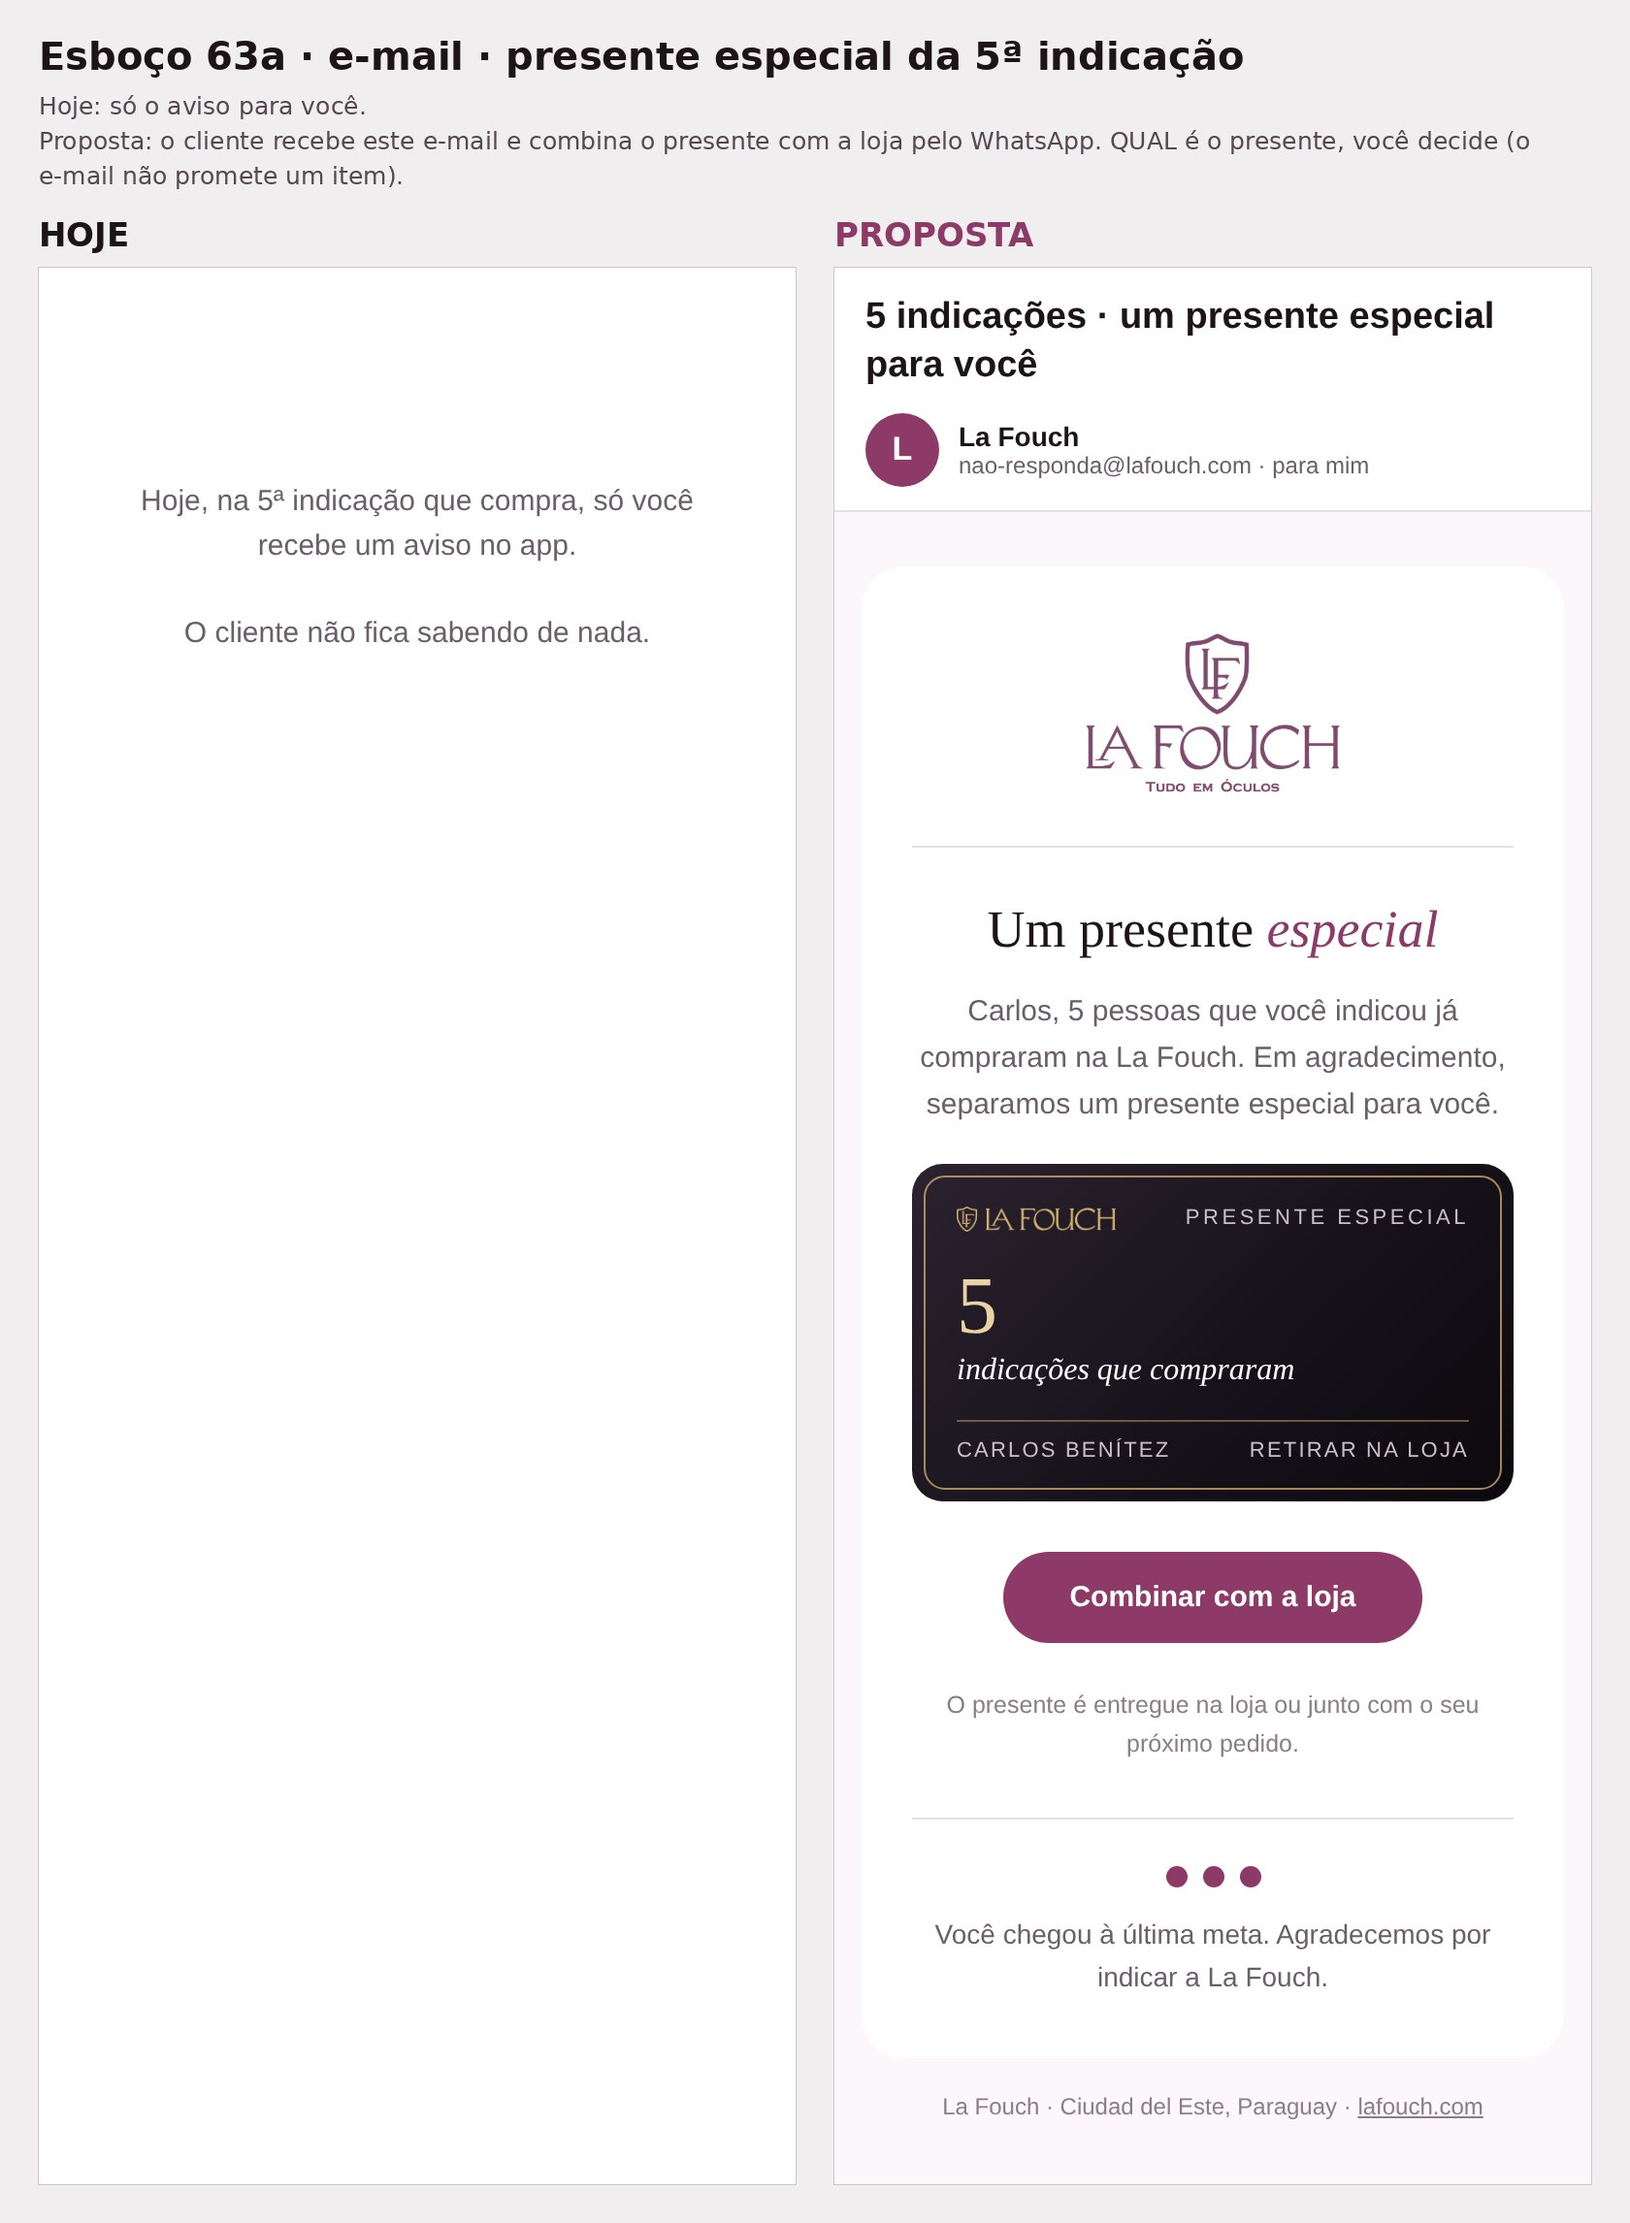
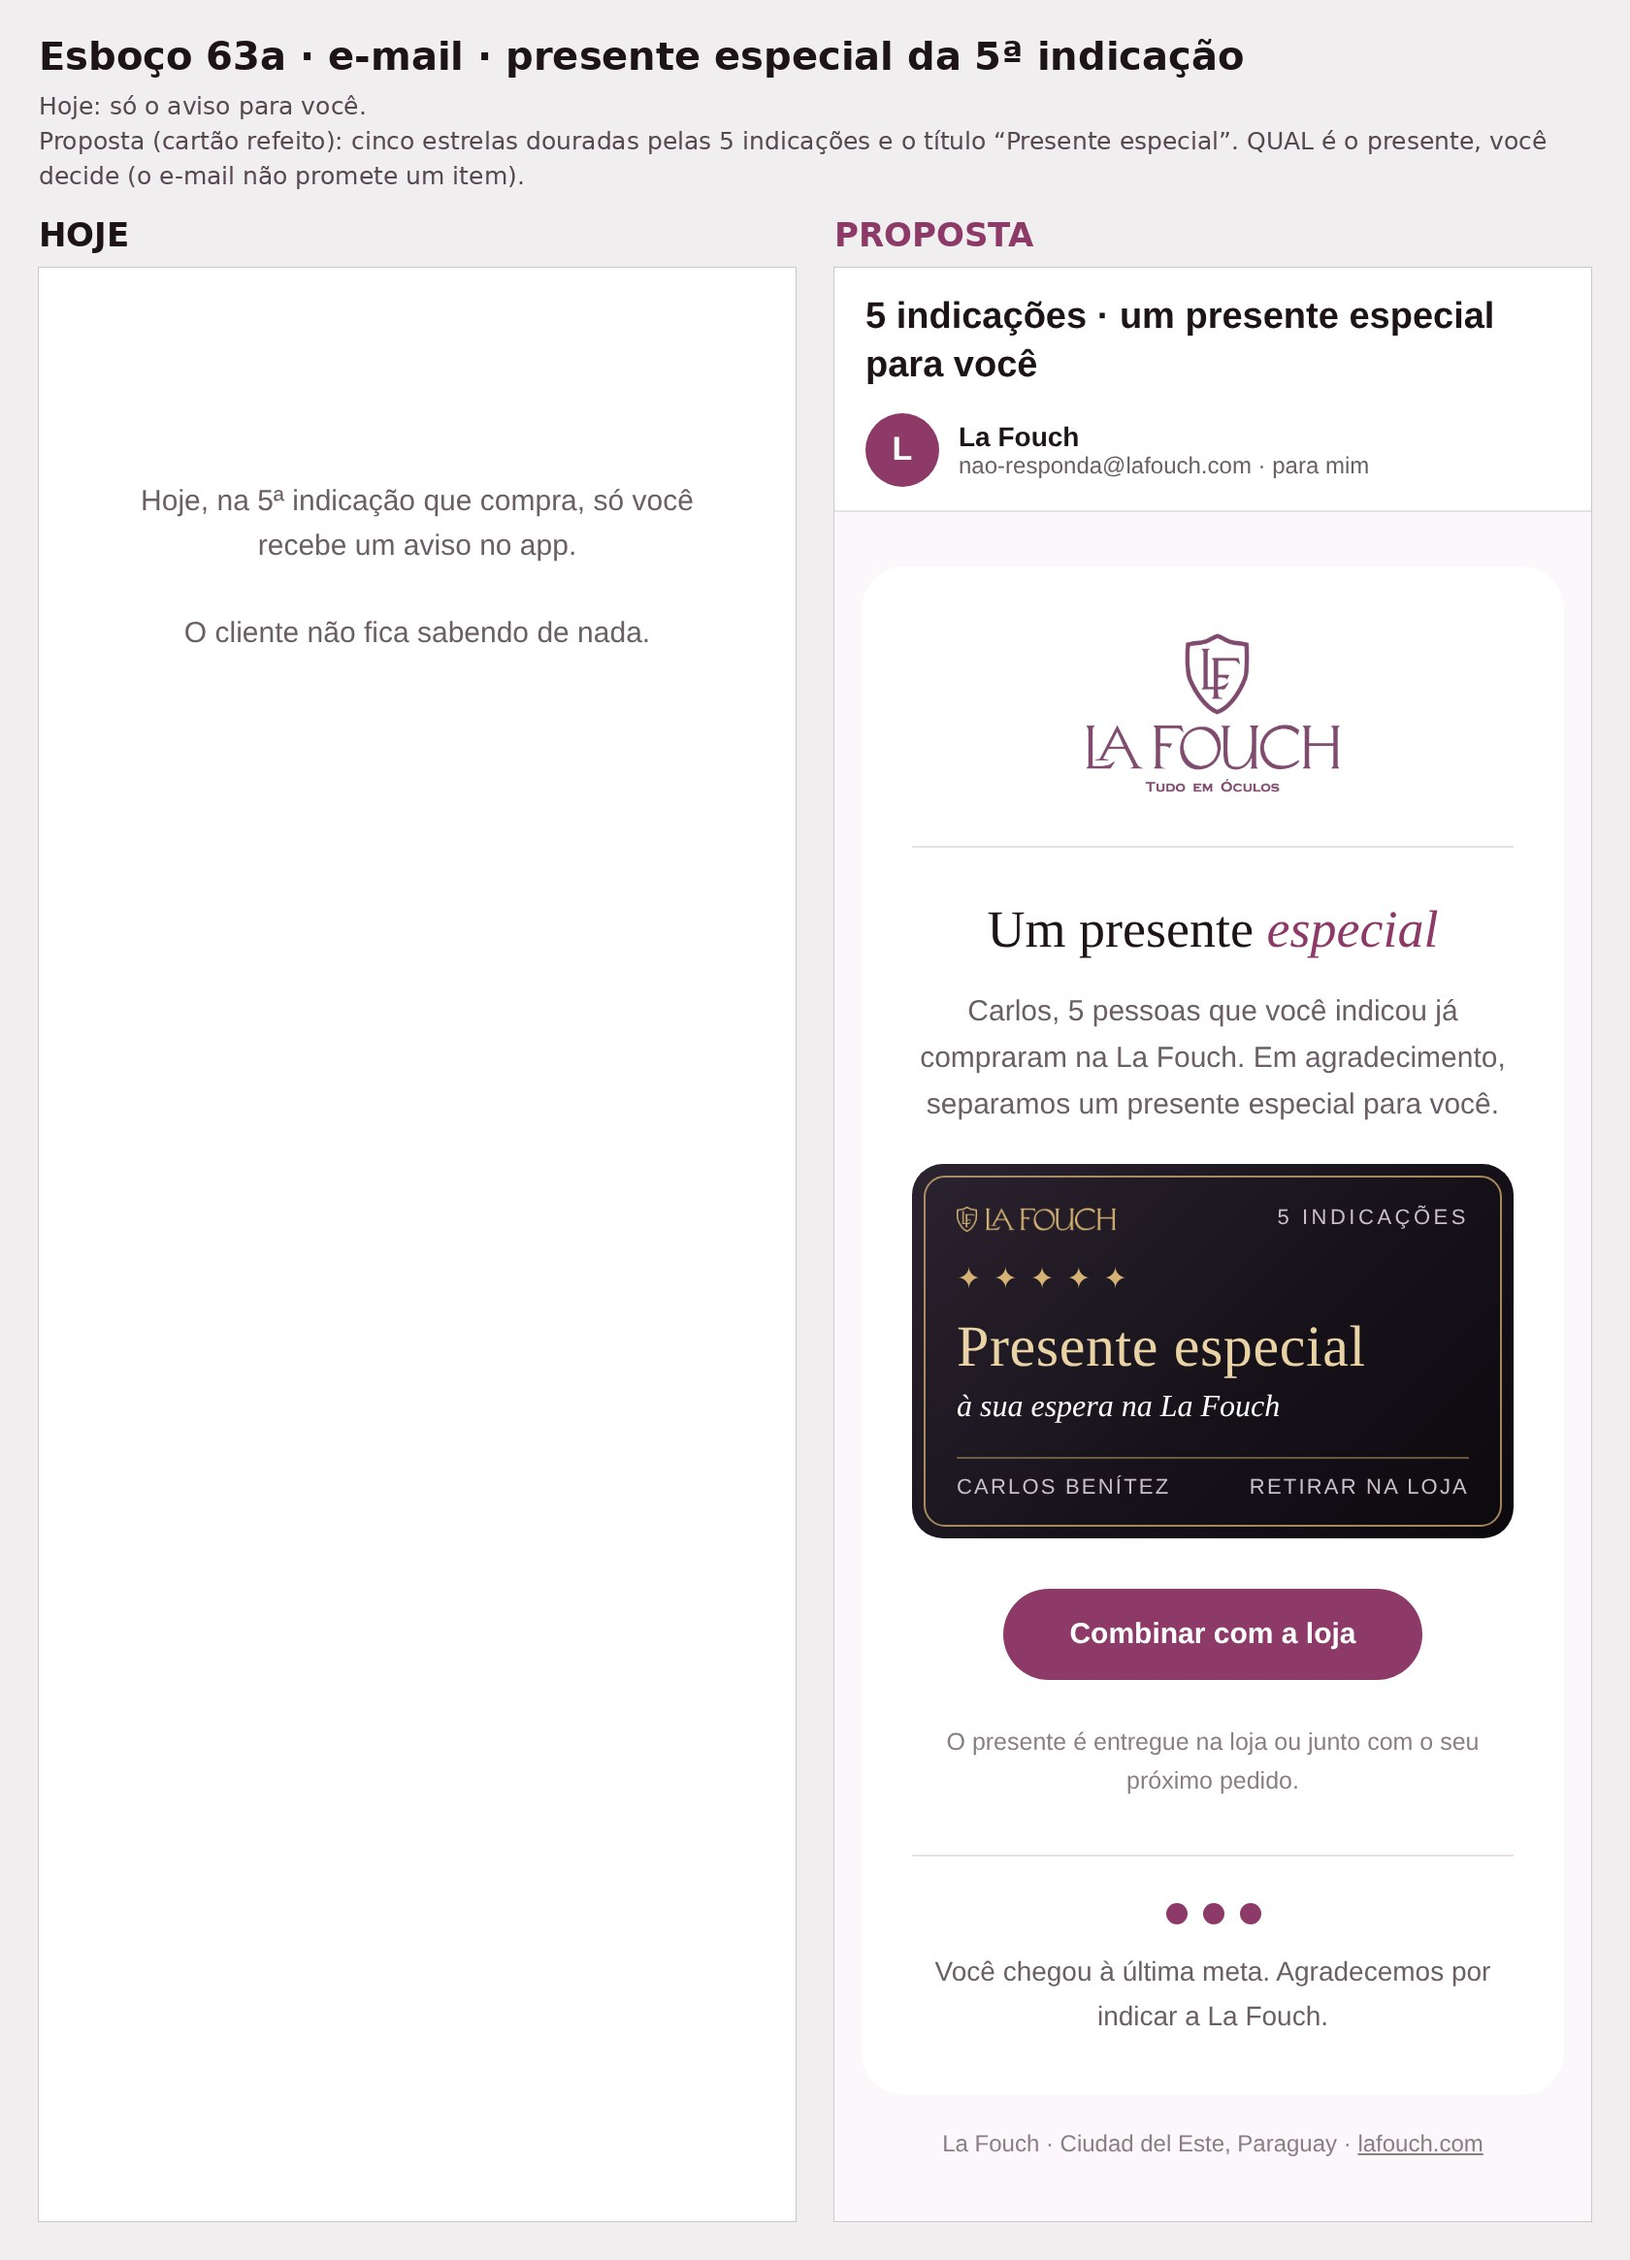
Esboço 63a refeito: cartão do presente especial com estrelas e título
Claude-Session: https://claude.ai/code/session_01Vj5GPR2QjandaFr6ascRKC

diff --git a/work/s401/gera.js b/work/s401/gera.js
@@ -2,9 +2,12 @@
 const fs=require('fs'),E=require('/home/claude/lafouch/functions/email.js');
 const tab=E.tabela([E.linha('Óculos de sol Hexagonal · Dourado · 1 un.','Gs. 650.000'),E.linha('Retirada na loja','Grátis'),E.linha('Total','Gs. 650.000',true)]);
 const ped='<div style="text-align:center;font:13px '+E.SA+';color:'+E.S+';letter-spacing:.06em;margin:0 0 6px">PEDIDO 4821 · 17/11/2026</div>';
+// cartão do presente especial (refeito 17/11 07:50: o "5" sozinho ficava vazio): cinco estrelas douradas = as 5 indicações, título em serifa no lugar do número
+function especial(){const est='<div style="font:15px/1 Georgia,serif;letter-spacing:.42em;color:#d6b274;margin:18px 0 10px">✦✦✦✦✦</div>';
+  return E.luxo({tema:'preto',rot:'5 INDICAÇÕES',pct:'Presente especial',tit:'à sua espera na La Fouch',nome:'CARLOS BENÍTEZ',val:'RETIRAR NA LOJA'}).replace('font:500 42px/1 '+E.SE+';color:#e9d3a6;margin:18px 0 2px;letter-spacing:.01em','font:500 30px/1.15 '+E.SE+';color:#e9d3a6;margin:0 0 4px;letter-spacing:.01em').replace('</table><div style="font:500 30px','</table>'+est+'<div style="font:500 30px')}
 const L=[
- {arq:'63a-email-presente-da-5a-indicacao',nome:'presente especial da 5ª indicação',hoje:null,nota:'Hoje, na 5ª indicação que compra, só você recebe um aviso no app.<br><br>O cliente não fica sabendo de nada.',sub:['Hoje: só o aviso para você.','Proposta: o cliente recebe este e-mail e combina o presente com a loja pelo WhatsApp. QUAL é o presente, você decide (o e-mail não promete um item).'],
-  assunto:'5 indicações · um presente especial para você',html:E.molde('Um presente '+E.I('especial'),E.P('Carlos, 5 pessoas que você indicou já compraram na La Fouch. Em agradecimento, separamos um presente especial para você.')+E.luxo({tema:'preto',rot:'PRESENTE ESPECIAL',pct:'5',tit:'indicações que compraram',nome:'CARLOS BENÍTEZ',val:'RETIRAR NA LOJA'})+E.B('Combinar com a loja','#')+E.PQ('O presente é entregue na loja ou junto com o seu próximo pedido.')+E.FIO()+E.metas(3,'Você chegou à última meta. Agradecemos por indicar a La Fouch.'))},
+ {arq:'63a-email-presente-da-5a-indicacao',nome:'presente especial da 5ª indicação',hoje:null,nota:'Hoje, na 5ª indicação que compra, só você recebe um aviso no app.<br><br>O cliente não fica sabendo de nada.',sub:['Hoje: só o aviso para você.','Proposta (cartão refeito): cinco estrelas douradas pelas 5 indicações e o título “Presente especial”. QUAL é o presente, você decide (o e-mail não promete um item).'],
+  assunto:'5 indicações · um presente especial para você',html:E.molde('Um presente '+E.I('especial'),E.P('Carlos, 5 pessoas que você indicou já compraram na La Fouch. Em agradecimento, separamos um presente especial para você.')+especial()+E.B('Combinar com a loja','#')+E.PQ('O presente é entregue na loja ou junto com o seu próximo pedido.')+E.FIO()+E.metas(3,'Você chegou à última meta. Agradecemos por indicar a La Fouch.'))},
  {arq:'63b-email-pedido-cancelado',nome:'pedido cancelado (pela loja ou pelo cliente)',hoje:null,nota:'Hoje, quando um pedido é cancelado, o cliente só vê na tela do site.<br><br>Não chega e-mail.',sub:['Hoje: nenhum e-mail.','Proposta: e-mail curto dizendo que o pedido foi cancelado e que nada foi cobrado; se já pagou, fala com a loja.'],
   assunto:'Seu pedido 4821 foi cancelado',html:E.molde('Pedido '+E.I('cancelado'),E.P('Olá, Maria. O seu pedido foi cancelado e as peças voltaram para o site.')+ped+tab+E.PQ('Se você já tinha pago, fale com a loja: resolvemos na hora.')+E.B('Ver o catálogo','#')+E.LK('Falar com a loja no WhatsApp','#'))},
  {arq:'63c-email-reserva-vencida',nome:'reserva vencida (30 minutos sem pagamento)',hoje:null,nota:'Hoje, quando os 30 minutos da reserva acabam sem pagamento, o cliente só vê na tela do site.<br><br>Não chega e-mail.',sub:['Hoje: nenhum e-mail.','Proposta: avisa que a reserva venceu e leva de volta ao pedido com um toque. Só sai uma vez por pedido.'],

diff --git a/docs/FALTA-APROVAR-15-11.md b/docs/FALTA-APROVAR-15-11.md
@@ -322,3 +322,4 @@ Não são esquecimento (estavam na lista, parados de propósito ou por ordem do 
 - 17/11 07:42 — DONO: "Regra aprovada" → fica valendo como implementado: indicação de quem NÃO tem cartão valendo = cartão novo de 10% na 1ª e 20% na 3ª; com cartão valendo = cresce para 15% e 20%. Pediu ESBOÇOS das minhas propostas: presente da 5ª indicação, e-mail de pedido cancelado, cédula no cadastro, teclado no iPhone.
 - 17/11 08:1x — ESBOÇOS 63a–63e enviados, ESPERANDO decisão (work/s401; nada implementado): 63a e-mail do presente especial da 5ª indicação (não promete um item; "Combinar com a loja"; QUAL é o presente o dono decide) · 63b e-mail de pedido cancelado · 63c e-mail de reserva vencida (30 min sem pagar; uma vez por pedido) · 63d formulário "Complete seus dados" com o seletor Cédula | RUC (hoje 4567890 vira 456789-0) · 63e teclado no iPhone (a tela encolhe e o botão fica acima; hoje só o Android foi corrigido). Inspetor: 63d sem falha nova. AVISO: o 63e é o comportamento desejado; no iPhone só dá para confirmar num aparelho de verdade.
 - 17/11 07:49 — DONO: "Sim" → **63b (e-mail de pedido cancelado) APROVADO, esperando "implementar"**; **63c (e-mail de reserva vencida) RETIRADO** (seria spam: 3 e-mails por pedido abandonado e gasta o limite de 100/dia). Continuam esperando decisão: 63a (falta ele dizer qual é o presente), 63d, 63e. Ele avisou que "ainda temos um pequeno problema" (a dizer).
+- 17/11 07:50 — DONO sobre o 63a: "esse 5 não ficou legal, é muito vazio; precisamos melhorar o cartão especial" → 63a REFEITO (work/s401/gera.js, função especial()): no lugar do número, cinco estrelas douradas (as 5 indicações) + título em serifa "Presente especial" + "à sua espera na La Fouch"; no canto "5 INDICAÇÕES". ESPERANDO decisão (e qual é o presente).
